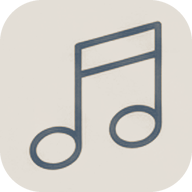
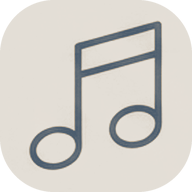
proto v3: 아이콘 모서리 더 둥글게(28%), 틀 바탕 투명
Claude-Session: https://claude.ai/code/session_012p9REnXPvjp6fop7YDYTha

diff --git a/proto/v3.html b/proto/v3.html
@@ -116,6 +116,10 @@ h2{font-family:var(--serif);font-weight:400;font-size:clamp(22px,3vw,30px);lette
 .app[hidden]{display:none}
 .app .ic{width:64px;height:64px;border-radius:15px;background:var(--deep);color:#e9e4da;display:grid;place-items:center;font-family:var(--serif);font-size:20px;overflow:hidden}
 .app .ic img{width:100%;height:100%;object-fit:cover}
+/* 선 그림 PNG는 모서리가 투명(반경 28%) → 틀 바탕은 투명, 틀 반경도 28%로 맞춤 */
+.app .ic{background:transparent;border-radius:28%}
+.drop>*{background:transparent;border-radius:28%!important}
+@media (max-width:640px){.app .ic{border-radius:28%}}
 /* 아이콘: 높이 떠 있는 듯한 연한 그림자 */
 .app .ic{box-shadow:0 28px 36px -14px rgba(31,47,61,.85),0 10px 16px -6px rgba(31,47,61,.35)}
 .app .nm{font-family:var(--serif);font-size:18px}
@@ -354,11 +358,11 @@ body.at-top .dropzone{display:block}
 <!-- 첫 화면: 상단 가운데에 마우스를 올리거나 화면을 터치하면 앱 아이콘이 위에서 내려옴 -->
 <div class="dropzone" id="dz" aria-hidden="true"></div>
 <nav class="drop" id="drop" aria-label="Apps">
-  <span data-label="Used to read numbers" data-bg="hov-money" data-pop="popMoney" role="button" tabindex="0"><img src="v3/moneypie-line.png?v=2" alt="Used to read numbers"></span>
-  <span data-label="Used at sea" data-bg="hov-dtmd" data-pop="popDtmd" role="button" tabindex="0"><img src="v3/dtmd-line.png?v=2" alt="Used at sea"></span>
-  <span data-label="Used back on land" data-bg="hov-dtme" data-pop="dtmeOv" role="button" tabindex="0"><img src="v3/dtme-line.png?v=2" alt="Used back on land"></span>
-  <span data-label="Used to compose" data-bg="hov-dtmc" data-pop="popDtmc" role="button" tabindex="0"><img src="v3/dtmc-line.png?v=2" alt="Used to compose"></span>
-  <span data-label="Used to touch up" data-bg="hov-mosco" data-pop="popMosco" role="button" tabindex="0"><img src="v3/mosco-line.png?v=2" alt="Used to touch up"></span>
+  <span data-label="Used to read numbers" data-bg="hov-money" data-pop="popMoney" role="button" tabindex="0"><img src="v3/moneypie-line.png?v=3" alt="Used to read numbers"></span>
+  <span data-label="Used at sea" data-bg="hov-dtmd" data-pop="popDtmd" role="button" tabindex="0"><img src="v3/dtmd-line.png?v=3" alt="Used at sea"></span>
+  <span data-label="Used back on land" data-bg="hov-dtme" data-pop="dtmeOv" role="button" tabindex="0"><img src="v3/dtme-line.png?v=3" alt="Used back on land"></span>
+  <span data-label="Used to compose" data-bg="hov-dtmc" data-pop="popDtmc" role="button" tabindex="0"><img src="v3/dtmc-line.png?v=3" alt="Used to compose"></span>
+  <span data-label="Used to touch up" data-bg="hov-mosco" data-pop="popMosco" role="button" tabindex="0"><img src="v3/mosco-line.png?v=3" alt="Used to touch up"></span>
 </nav>
 <div class="drop-lbl" id="dropLbl" aria-hidden="true"><span></span><span></span></div>
 
@@ -391,15 +395,15 @@ body.at-top .dropzone{display:block}
 <section class="blk panel sheet" id="apps"><div class="w" data-speed="1.35">
   <h2 class="reveal">Apps</h2>
   <ul class="apps">
-    <li class="app reveal"><button class="row" type="button" data-pop="popMoney"><div class="ic"><img src="v3/moneypie-line.png?v=2" alt="" loading="lazy"></div>
+    <li class="app reveal"><button class="row" type="button" data-pop="popMoney"><div class="ic"><img src="v3/moneypie-line.png?v=3" alt="" loading="lazy"></div>
       <div><p class="nm">Used to read numbers</p></div><span class="ar">→</span></button></li>
-    <li class="app reveal"><button class="row" type="button" data-pop="popDtmd"><div class="ic"><img src="v3/dtmd-line.png?v=2" alt="" loading="lazy"></div>
+    <li class="app reveal"><button class="row" type="button" data-pop="popDtmd"><div class="ic"><img src="v3/dtmd-line.png?v=3" alt="" loading="lazy"></div>
       <div><p class="nm">Used at sea</p></div><span class="ar">→</span></button></li>
-    <li class="app reveal"><button class="row" type="button" data-pop="dtmeOv"><div class="ic"><img src="v3/dtme-line.png?v=2" alt="" loading="lazy"></div>
+    <li class="app reveal"><button class="row" type="button" data-pop="dtmeOv"><div class="ic"><img src="v3/dtme-line.png?v=3" alt="" loading="lazy"></div>
       <div><p class="nm">Used back on land</p></div><span class="ar">→</span></button></li>
-    <li class="app reveal"><button class="row" type="button" data-pop="popDtmc"><div class="ic"><img src="v3/dtmc-line.png?v=2" alt="" loading="lazy"></div>
+    <li class="app reveal"><button class="row" type="button" data-pop="popDtmc"><div class="ic"><img src="v3/dtmc-line.png?v=3" alt="" loading="lazy"></div>
       <div><p class="nm">Used to compose</p></div><span class="ar">→</span></button></li>
-    <li class="app reveal"><button class="row" type="button" data-pop="popMosco"><div class="ic"><img src="v3/mosco-line.png?v=2" alt="" loading="lazy"></div>
+    <li class="app reveal"><button class="row" type="button" data-pop="popMosco"><div class="ic"><img src="v3/mosco-line.png?v=3" alt="" loading="lazy"></div>
       <div><p class="nm">Used to touch up</p></div><span class="ar">→</span></button></li>
   </ul>
 </div></section>

diff --git a/proto/HANDOFF.md b/proto/HANDOFF.md
@@ -11,7 +11,7 @@
 - 배포 확인: push 후 `sync.yml`을 workflow_dispatch로 실행하면 1~2분 안에 반영.
 
 ## v3 현재 구성 (위→아래)
-**아이콘 2026-11-19 교체**: 실사 명암 아이콘(*-duo.webp, 파일은 남겨 둠) → 선 그림 아이콘 *-line.png(192×192, 투명 둥근 사각형, 반경 22%). 출처: 사용자가 준 색 타일 5개 그림(Gemini)에서 테두리 안쪽(14px, 원본 테두리 6~7px + 둥근 모서리 여유)을 잘라 명암만 남김 → 선 #4a5c6e, 바탕 #b9ab98~#f4f2ee. 모든 바탕을 같은 밝기(0.86)로 통일. 다이버 물결선(높이 약 61px, 주기 약 36.5px 사인)을 측정해 물고기에도 같은 수면선·물색(0.56) 적용, 물고기 몸 안은 밝게. 그림: 머니파이=동전, DTMD=다이버, DTME=물고기, DTMC=음표, MOSCO=화장대.
+**아이콘 2026-11-19 교체**: 실사 명암 아이콘(*-duo.webp, 파일은 남겨 둠) → 선 그림 아이콘 *-line.png(192×192, 투명 둥근 사각형, 반경 28% — 아이콘 틀(.app .ic, .drop>*)도 반경 28%·바탕 투명으로 맞춤, 캐시 ?v=3). 출처: 사용자가 준 색 타일 5개 그림(Gemini)에서 테두리 안쪽(14px, 원본 테두리 6~7px + 둥근 모서리 여유)을 잘라 명암만 남김 → 선 #4a5c6e, 바탕 #b9ab98~#f4f2ee. 모든 바탕을 같은 밝기(0.86)로 통일. 다이버 물결선(높이 약 61px, 주기 약 36.5px 사인)을 측정해 물고기에도 같은 수면선·물색(0.56) 적용, 물고기 몸 안은 밝게. 그림: 머니파이=동전, DTMD=다이버, DTME=물고기, DTMC=음표, MOSCO=화장대.
 **언어: 2026-11-16 홈페이지 전체를 영어로 전환**(lang=en). 앱 설명 = Used to read numbers(머니파이) / Used at sea(DTMD) / Used back on land(DTME) / Used to touch up(MOSCO). 소개 = "Things I made for my own use." 메뉴 = Apps · Contact. DTME 팝업도 영문(편집 창 글자 9px로 줄여 넘침 방지). 아래 항목의 한글 문구는 영문 전환 전 기록.
 1. 첫 화면: 임시 그림 3장(g1 수평선·g3 산·g4 해질녘) 8초마다 크로스페이드 + 천천히 확대(다음 그림이 1초 먼저 움직이고, 나가는 그림은 움직이며 사라짐 — 툭툭 걸림 해결). 글자 없음. 진행 표시줄만.
    - 숨은 입력: 첫 화면에서 키보드로 ART 또는 IZO → https://kangizo.com (폰은 키보드가 없어 미동작)
